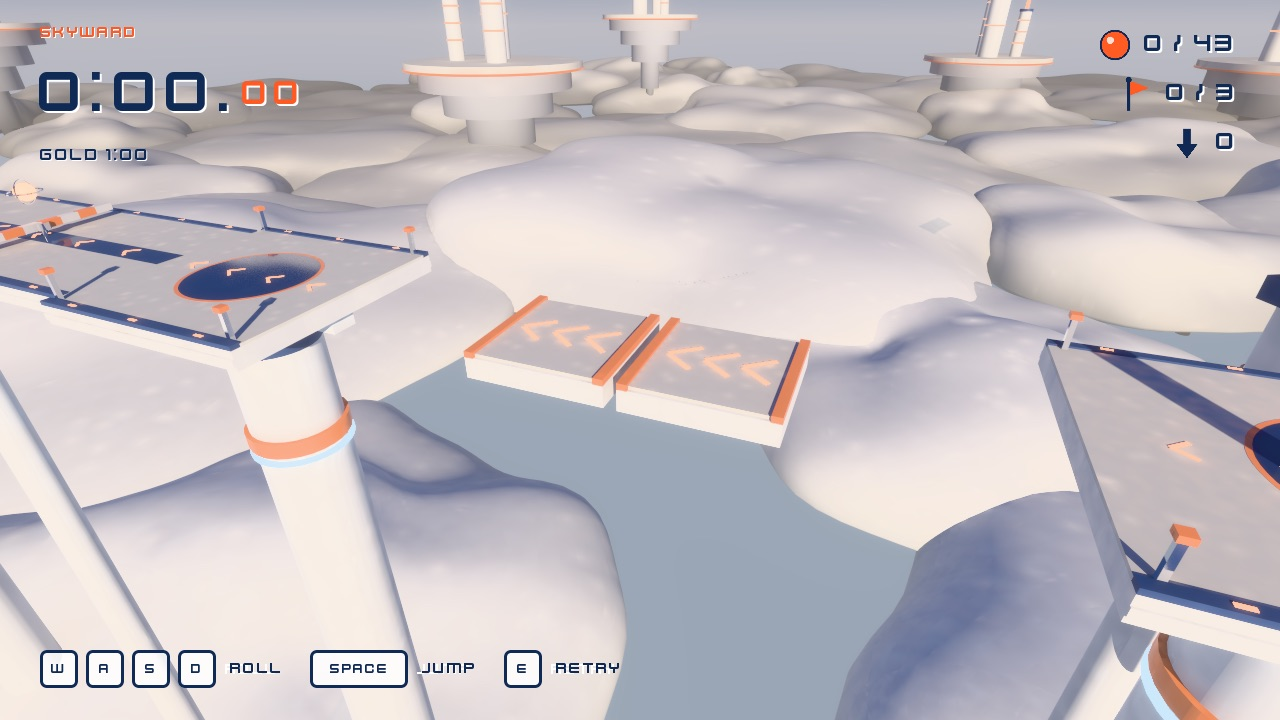
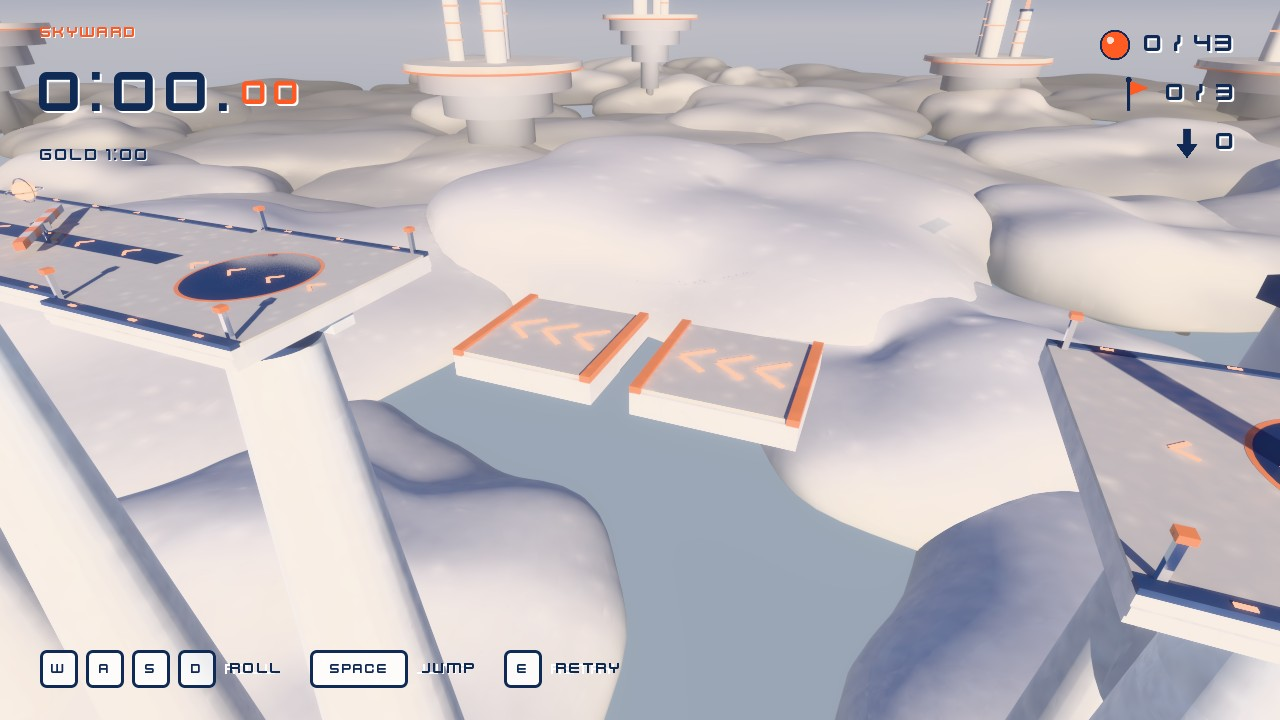
Glint: pylons taper out over the 50 m seen above the cloud, thicker deck piers, deck rings hang from their deck instead of standing on masts
Replay unchanged (2998 ticks, same state hash). Overview, turn and slider wide previews re-shot.

diff --git a/crates/ara-samples/src/build/glint/kits.rs b/crates/ara-samples/src/build/glint/kits.rs
@@ -383,15 +383,22 @@ fn pylon(k: &mut Kit, top: Vec3, radius: f32) {
     const PAINT: usize = 0;
     const CORAL: usize = 1;
     const BAND: usize = 2;
+    // The taper is all in the stretch seen above the cloud; below it the shaft is straight.
+    // Slim ones flare the most: a 1 m shaft is a hair from across the course.
+    const FLARE: f32 = 50.0;
+    let wide = (radius * 2.2).max(radius + 3.4);
+    let flare = Mat4::from_translation(top - Vec3::Y * FLARE);
+    k.frustum(PAINT, wide, radius, FLARE, 28, flare);
     let base = Mat4::from_translation(top - Vec3::Y * DEPTH);
-    k.frustum(PAINT, radius * 2.2, radius, DEPTH, 28, base);
+    k.frustum(PAINT, wide, wide, DEPTH - FLARE, 28, base);
     column(k, CORAL, top - Vec3::Y * 4.4, radius * 1.12, 0.7, 28);
     column(k, BAND, top - Vec3::Y * 4.8, radius * 1.14, 0.16, 28);
 }
 
 /// What holds the course up, all of it running down into the cloud: a pylon with a flared
 /// head under every pad, one pier with a bracket under each long deck and two under the banked
-/// turn, and a mast under every ring (the beam rests in its two rings on cradles).
+/// turn, and a mast under each of the beam's two rings (the beam rests in them on cradles).
+/// The other rings on the route hang from their deck.
 pub fn supports(root: &Path, lock: &Lock, c: &Course) -> Result<String> {
     const PAINT: usize = 0;
     const NAVY: usize = 3;
@@ -438,7 +445,9 @@ pub fn supports(root: &Path, lock: &Lock, c: &Course) -> Result<String> {
                     continue;
                 }
                 let top = p.center + p.rot * v(0.0, -h.y - 0.75, 0.0);
-                // A bracket across the deck's underside, then the head and the shaft.
+                // A bracket across the deck's underside, then the head and the shaft: as
+                // thick as the deck allows, so it still reads as a column from far off.
+                let r = (h.x * 0.4).clamp(0.9, 1.6);
                 oriented(
                     &mut k,
                     NAVY,
@@ -448,43 +457,29 @@ pub fn supports(root: &Path, lock: &Lock, c: &Course) -> Result<String> {
                 );
                 k.frustum(
                     PAINT,
-                    0.9,
-                    1.7,
+                    r,
+                    (r * 1.8).min(h.x * 0.95),
                     0.9,
                     28,
                     Mat4::from_translation(top - v(0.0, 0.9, 0.0)),
                 );
-                pylon(&mut k, top - v(0.0, 0.9, 0.0), 0.9);
+                pylon(&mut k, top - v(0.0, 0.9, 0.0), r);
             }
         }
     }
     for r in &c.rings {
-        // Rings over the route stand on masts; the two on the cannon's arc float free.
-        if !c
-            .pieces
-            .iter()
-            .any(|p| (p.center - r.at).length() < p.half.z + 8.0)
-        {
-            continue;
-        }
-        // The mast meets the ring at its lowest point; where the ring's bottom is under a
-        // piece (the beam), a cradle joins the two.
+        // A ring round a deck hangs from that deck on a cradle; the beam's two rings stand
+        // on masts and carry the beam; the two on the cannon's arc float free.
         let foot = r.at - Vec3::Y * (r.radius * 1.03);
-        k.frustum(
-            NAVY,
-            0.8,
-            1.4,
-            0.8,
-            24,
-            Mat4::from_translation(foot - v(0.0, 0.8, 0.0)),
-        );
-        pylon(&mut k, foot - v(0.0, 0.8, 0.0), 0.8);
-        if let Some(beam) = c
+        let Some(under) = c
             .pieces
             .iter()
-            .find(|p| p.kind == Kind::Beam && (p.center - r.at).length() < p.half.z)
-        {
-            let gap = (beam.center.y - beam.half.y) - (r.at.y - r.radius);
+            .find(|p| (p.center - r.at).length() < p.half.z)
+        else {
+            continue;
+        };
+        let gap = (under.center.y - under.half.y) - (r.at.y - r.radius);
+        if gap > 0.0 {
             oriented(
                 &mut k,
                 PAINT,
@@ -492,6 +487,17 @@ pub fn supports(root: &Path, lock: &Lock, c: &Course) -> Result<String> {
                 v(0.3, gap * 0.5, 0.5),
                 r.rot,
             );
+        }
+        if under.kind == Kind::Beam {
+            k.frustum(
+                NAVY,
+                1.2,
+                1.9,
+                0.8,
+                24,
+                Mat4::from_translation(foot - v(0.0, 0.8, 0.0)),
+            );
+            pylon(&mut k, foot - v(0.0, 0.8, 0.0), 1.2);
         }
     }
     k.write(root, lock, "glint_supports")
